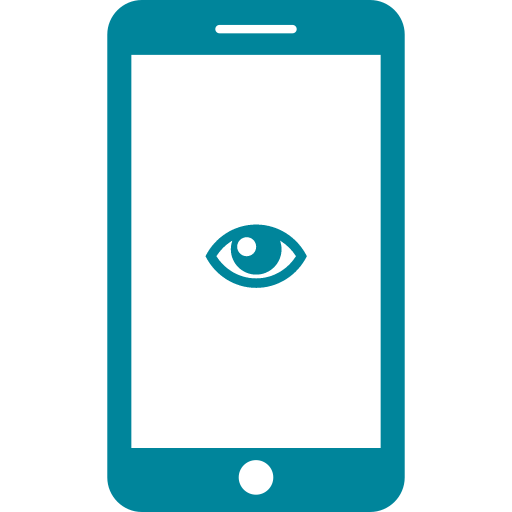
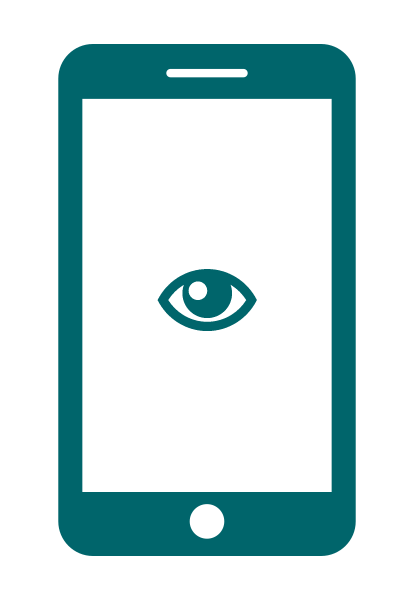
Ícones e cores
Foram alterados os ícones e cores da página principal.

diff --git a/lib/pages/PaginaPrincipal.dart b/lib/pages/PaginaPrincipal.dart
@@ -37,7 +37,10 @@ class _PagePrincipalState extends State<PagePrincipal> {
       //onde fica a barra na parte de cima
       appBar: AppBar(
         backgroundColor: Color(0xFF00656B),
-        title: Text('PÁGINA PRINCIPAL'),
+        title: Text(
+          'PÁGINA PRINCIPAL',
+          style: TextStyle(fontSize: 16.0),
+        ),
         centerTitle: true,
       ),
       drawer: MenuLateral(),
@@ -53,43 +56,48 @@ class _PagePrincipalState extends State<PagePrincipal> {
                   width: MediaQuery.of(context).size.width,
                   height: 100.0,
                   decoration: BoxDecoration(
-                    color: Color(0xFF578ca9),
+                    color: Color(0xFF00966C),
                     borderRadius: BorderRadius.circular(10.0),
                     boxShadow: [
                       BoxShadow(
-                        color: Colors.black.withOpacity(0.6),
-                        offset: Offset(3.0, 3.0),
-                        blurRadius: 5.0,
+                        color: Colors.black.withOpacity(0.4),
+                        offset: Offset(1.0, 2.0),
+                        blurRadius: 2.0,
                       ),
                     ],
                   ),
-                  child: FlatButton.icon(
-                    icon: Icon(
-                      Icons.monetization_on,
-                      color: Colors.white,
-                      size: 45.0,
-                    ),
-                    onPressed: () {
-                      chooseImage();
-
-                      Navigator.of(context)
-                          .pushNamed(
-                        AppRoutes.RESPOSTAIMGRECOG_PAGE,
-                        arguments: _output,
-                      ).then((retorno) {
-                        setState(() {
-                          this._busy = false;
-                        });
-                      });
-
-                    },
-                    label: Text(
-                      'CÉDULAS',
-                      style: TextStyle(
-                        fontSize: 20.0,
-                        color: Colors.white,
+                  child: Row(
+                    mainAxisAlignment: MainAxisAlignment.center,
+                    children: [
+                      Image.asset(
+                        'assets/images/icon-money.png',
+                        width: 50.0,
+                        height: 50.0,
                       ),
-                    ),
+                      FlatButton(
+                        onPressed: () {
+                          chooseImage();
+                          Navigator.of(context)
+                              .pushNamed(
+                            AppRoutes.RESPOSTAIMGRECOG_PAGE,
+                            arguments: _output,
+                          )
+                              .then((retorno) {
+                            setState(() {
+                              this._busy = false;
+                            });
+                          });
+                        },
+                        child: Text(
+                          'CÉDULAS',
+                          style: TextStyle(
+                            fontSize: 20.0,
+                            color: Colors.white,
+                            fontWeight: FontWeight.w400,
+                          ),
+                        ),
+                      ),
+                    ],
                   ),
                 ),
                 SizedBox(
@@ -99,46 +107,53 @@ class _PagePrincipalState extends State<PagePrincipal> {
                   width: MediaQuery.of(context).size.width,
                   height: 100.0,
                   decoration: BoxDecoration(
-                    color: Color(0xFFab5c6d),
+                    color: Color(0xFF007396),
                     borderRadius: BorderRadius.circular(10.0),
                     boxShadow: [
                       BoxShadow(
-                        color: Colors.black.withOpacity(0.6),
-                        offset: Offset(3.0, 3.0),
-                        blurRadius: 5.0,
+                        color: Colors.black.withOpacity(0.4),
+                        offset: Offset(1.0, 2.0),
+                        blurRadius: 2.0,
                       ),
                     ],
                   ),
-                  child: FlatButton.icon(
-                    icon: Icon(
-                      Icons.text_fields,
-                      color: Colors.white,
-                      size: 45.0,
-                    ),
-                    onPressed: () async {
-                      setState(() {
-                        this._busy = true;
-                      });
-
-                      String imageLabels = await IL.getImageFile();
-
-                      Navigator.of(context)
-                          .pushNamed(
-                        AppRoutes.RESPOSTA_PAGE,
-                        arguments: imageLabels,
-                      ).then((retorno) {
-                        setState(() {
-                          this._busy = false;
-                        });
-                      });
-                    },
-                    label: Text(
-                      'TEXTOS',
-                      style: TextStyle(
-                        fontSize: 20.0,
-                        color: Colors.white,
+                  child: Row(
+                    mainAxisAlignment: MainAxisAlignment.center,
+                    children: [
+                      Image.asset(
+                        'assets/images/icon-text.png',
+                        width: 50.0,
+                        height: 50.0,
                       ),
-                    ),
+                      FlatButton(
+                        onPressed: () async {
+                          setState(() {
+                            this._busy = true;
+                          });
+
+                          String imageLabels = await IL.getImageFile();
+
+                          Navigator.of(context)
+                              .pushNamed(
+                            AppRoutes.RESPOSTA_PAGE,
+                            arguments: imageLabels,
+                          )
+                              .then((retorno) {
+                            setState(() {
+                              this._busy = false;
+                            });
+                          });
+                        },
+                        child: Text(
+                          'TEXTOS',
+                          style: TextStyle(
+                            fontSize: 20.0,
+                            color: Colors.white,
+                            fontWeight: FontWeight.w400,
+                          ),
+                        ),
+                      ),
+                    ],
                   ),
                 ),
                 SizedBox(
